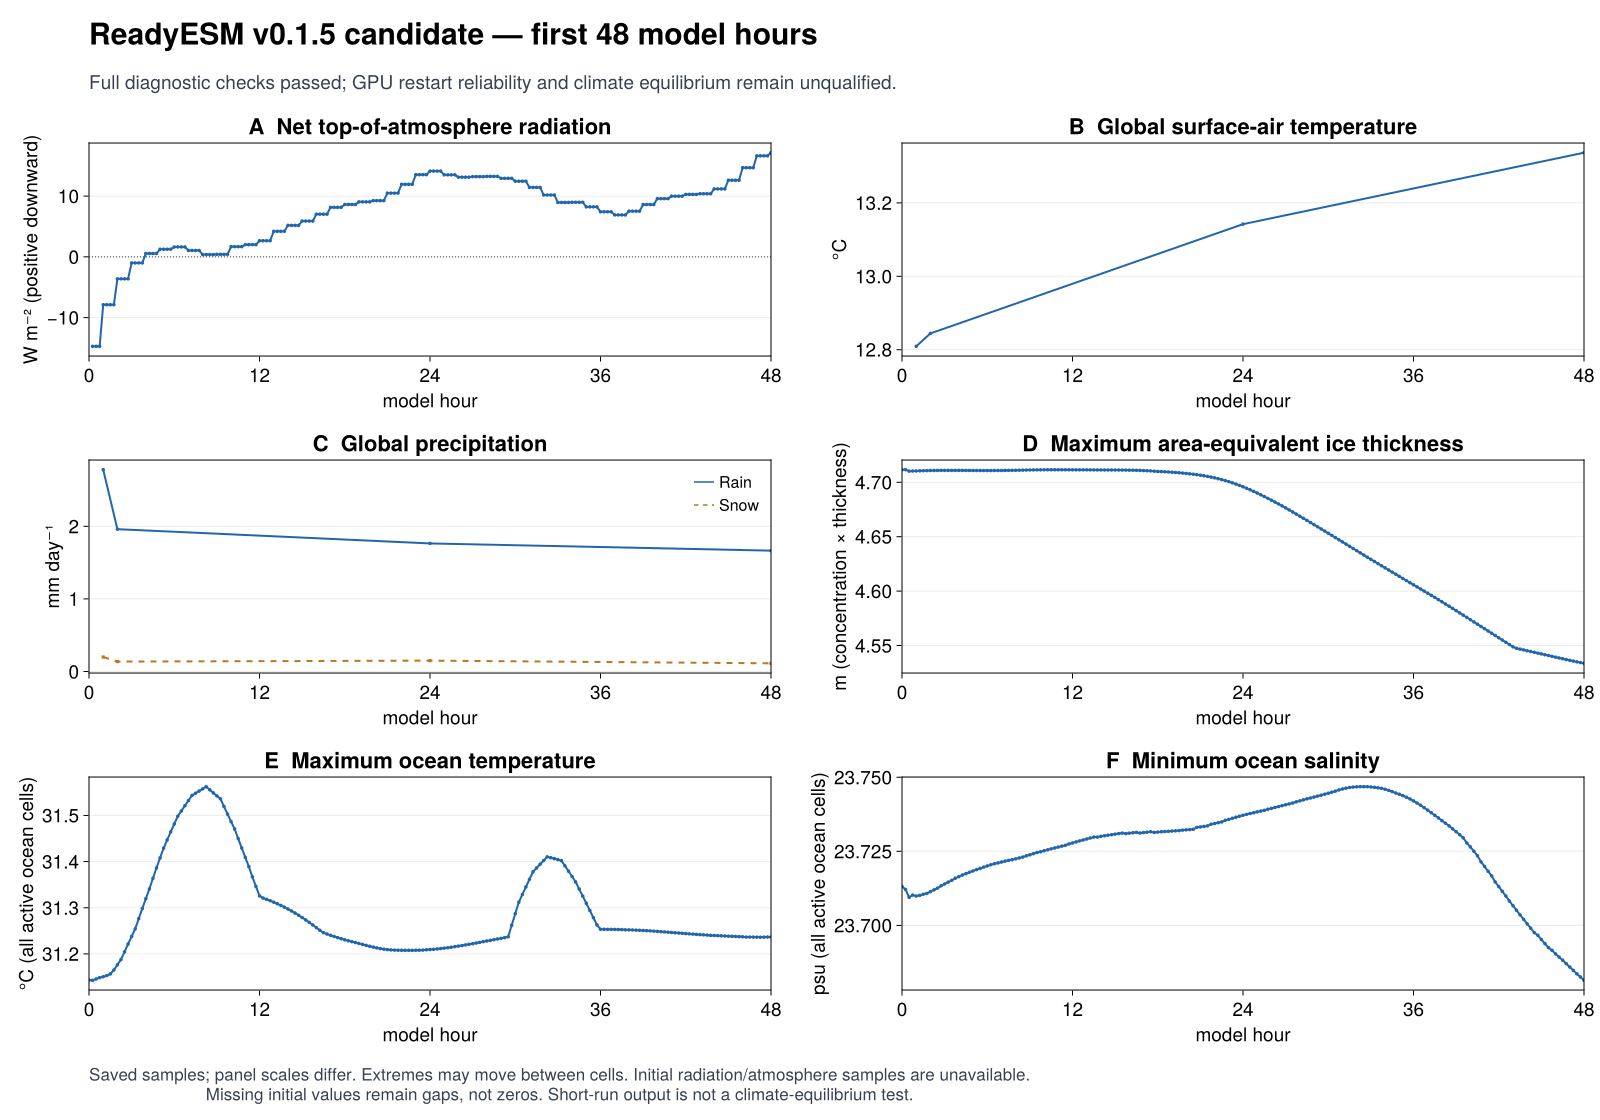
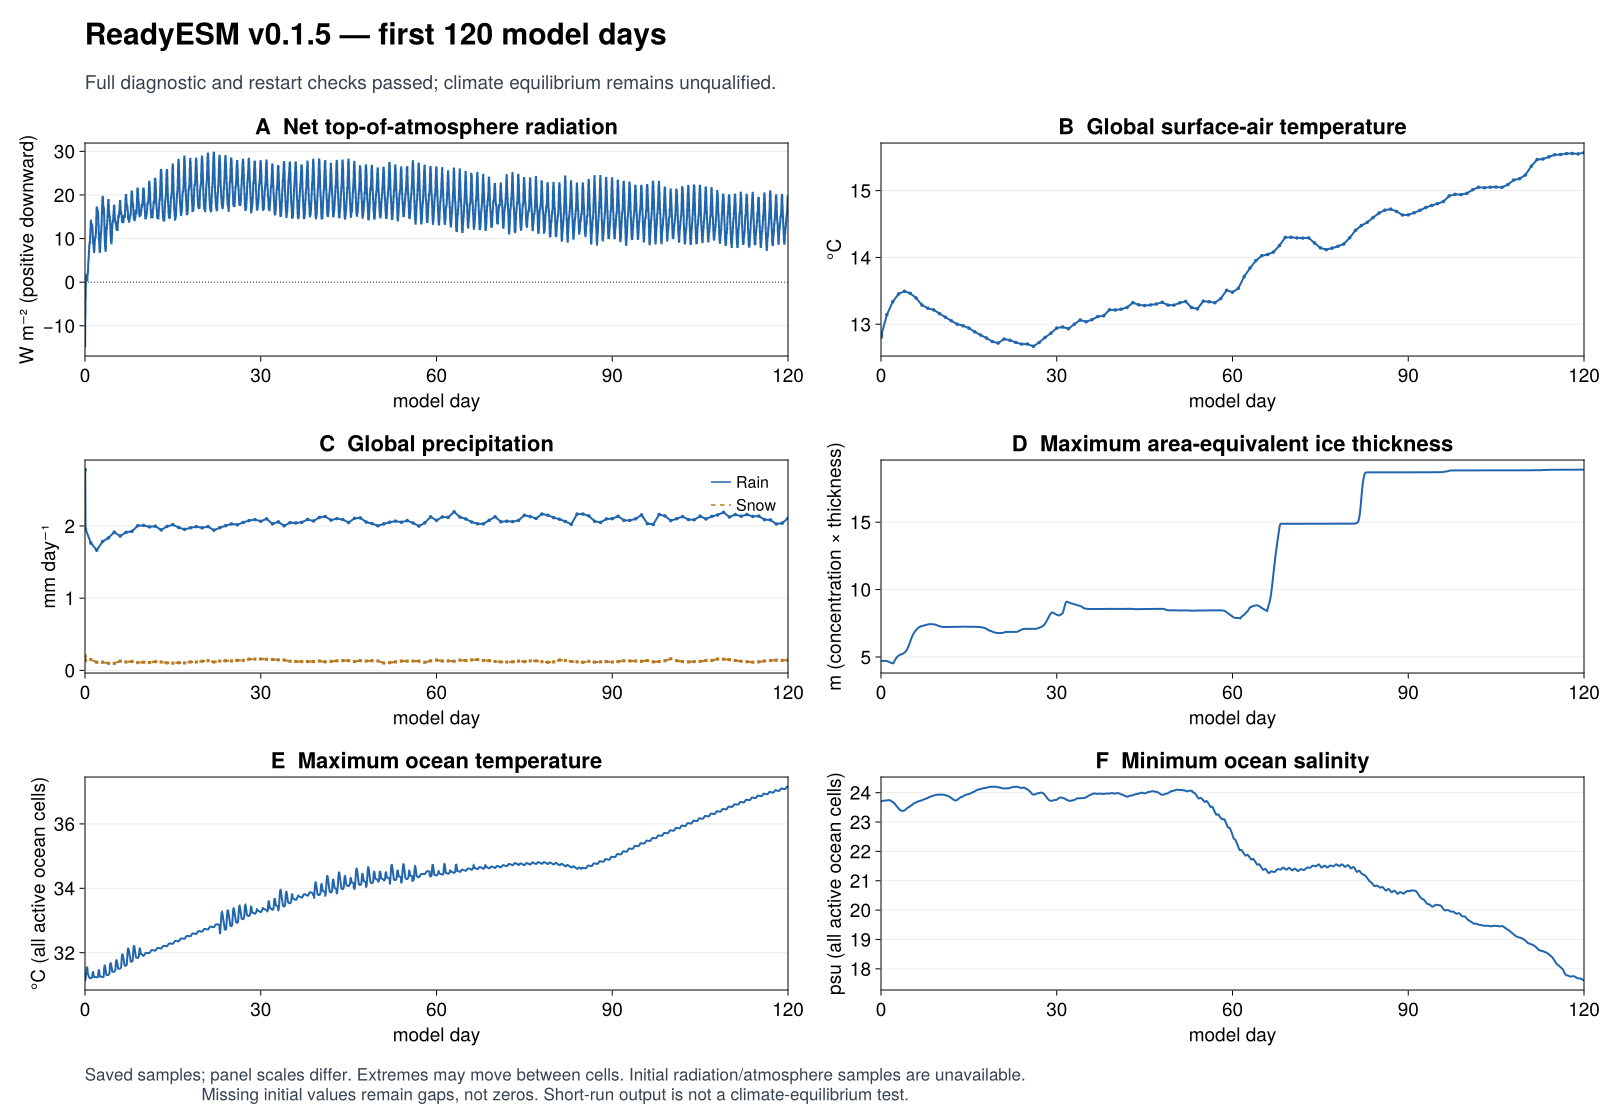
Show the 120-day v0.1.5 run

diff --git a/docs/validation-v0.1.5.md b/docs/validation-v0.1.5.md
@@ -98,10 +98,9 @@ SHA-256 records:
[2 lines of base64/hex data omitted]
 
-Figure job 56469061 passes in 1m04s. The README maps and linked timelines use
-this actual output, with [source and rendering provenance](readiesm-v0.1.5-snapshot.json).
-Missing initial diagnostic samples remain missing, not zero. Both exported
-figures were visually checked for units, labels, masks and clipping.
+Figure job 56469061 passes in 1m04s and supplied the original hour-48 maps
+and timelines. The README now shows the day-120 follow-up described below.
+Missing initial diagnostic samples remain missing, not zero.
 
 ## Fresh restart of the hour-48 checkpoint
 
@@ -123,6 +122,24 @@ independent uninterrupted trajectory or general GPU failure frequency.
[3 lines of base64/hex data omitted]
+
+## Follow-up through day 120 — 1 October
+
+The unchanged runtime completes day 2–30 in job 56478138 (1h17m16s), then
+day 30–120 in job 56483842 (2h01m33s). Both pass full native diagnostics
+and independent exact restored-state comparisons, without runtime overlays.
+The day-120 checkpoint SHA-256 is
[1 lines of base64/hex data omitted]
+
+Figure job 56539129 renders the actual day-120 maps and timelines. Both PNGs
+were visually reviewed; [provenance](readiesm-v0.1.5-snapshot.json) records
+their input and output hashes. The trajectories still show ocean warming,
+freshening and local ice accumulation. Passing the existing physical checks
+does not establish an equilibrated climate or solve these biases.
+
+Final release-commit CPU CI passes on main (36786679996), the release branch
+(36786680257) and the tag (36786679944). This figure update changes no runtime,
+configuration, dependency, test or threshold.
 
 ## Retained failures and limits
 

diff --git a/README.md b/README.md
@@ -12,15 +12,15 @@ the sea-ice momentum, stress and snow updates. Physics settings are unchanged.
 See the [release history](HISTORY.md) and
 [validation record](docs/validation-v0.1.5.md).
 
-**GPU qualification:** this version passes a production-resolution
-restart from model hour 2 to hour 48 and a fresh-process restart to hour 49,
-with full diagnostics and exact restored-state comparison. Earlier attempts
-failed; the successful runs also used a newer driver. General GPU restart
-reliability is not yet established.
+**GPU qualification:** this version has reached model day 120 through
+fresh-process restarts, with full diagnostics and exact restored-state checks.
+Earlier attempts failed; the successful runs also used a newer driver.
+General GPU reliability and a stationary climate are not yet established.
+Radiative imbalance, ocean drift and local ice pile-up remain.
 
-![ReadyESM v0.1.5: ocean, sea ice, atmosphere and land at model hour 48](docs/readiesm-v0.1.5-snapshot.png)
+![ReadyESM v0.1.5: ocean, sea ice, atmosphere and land at model day 120](docs/readiesm-v0.1.5-snapshot.png)
 
-*A v0.1.5 GPU restart continued to model hour 48.*
+*A 120-day initialised v0.1.5 run.*
 [Timelines](docs/readiesm-v0.1.5-timelines.png) ·
 [Figure provenance](docs/readiesm-v0.1.5-snapshot.json)
 

diff --git a/HISTORY.md b/HISTORY.md
@@ -37,6 +37,11 @@ failed commands, frozen-source hashes and diagnostic artefacts.
 - A separate process restores that hour-48 checkpoint and reaches hour 49,
   again passing full diagnostics and exact restored-state comparison (56m24s).
 - Experimental land and air–ice surface-solver changes are not included.
+- Follow-up on 1 October: the same runtime reaches day 30 and then day 120
+  through fresh-process restarts, passing normal diagnostics and exact
+  restored-state checks. Update the README maps and timelines to day 120.
+  Ocean drift, radiative imbalance and local ice pile-up remain unresolved;
+  this is longer validation, not a new physics release.
 
 ### 0.1.4 — 2026-09-24
 
